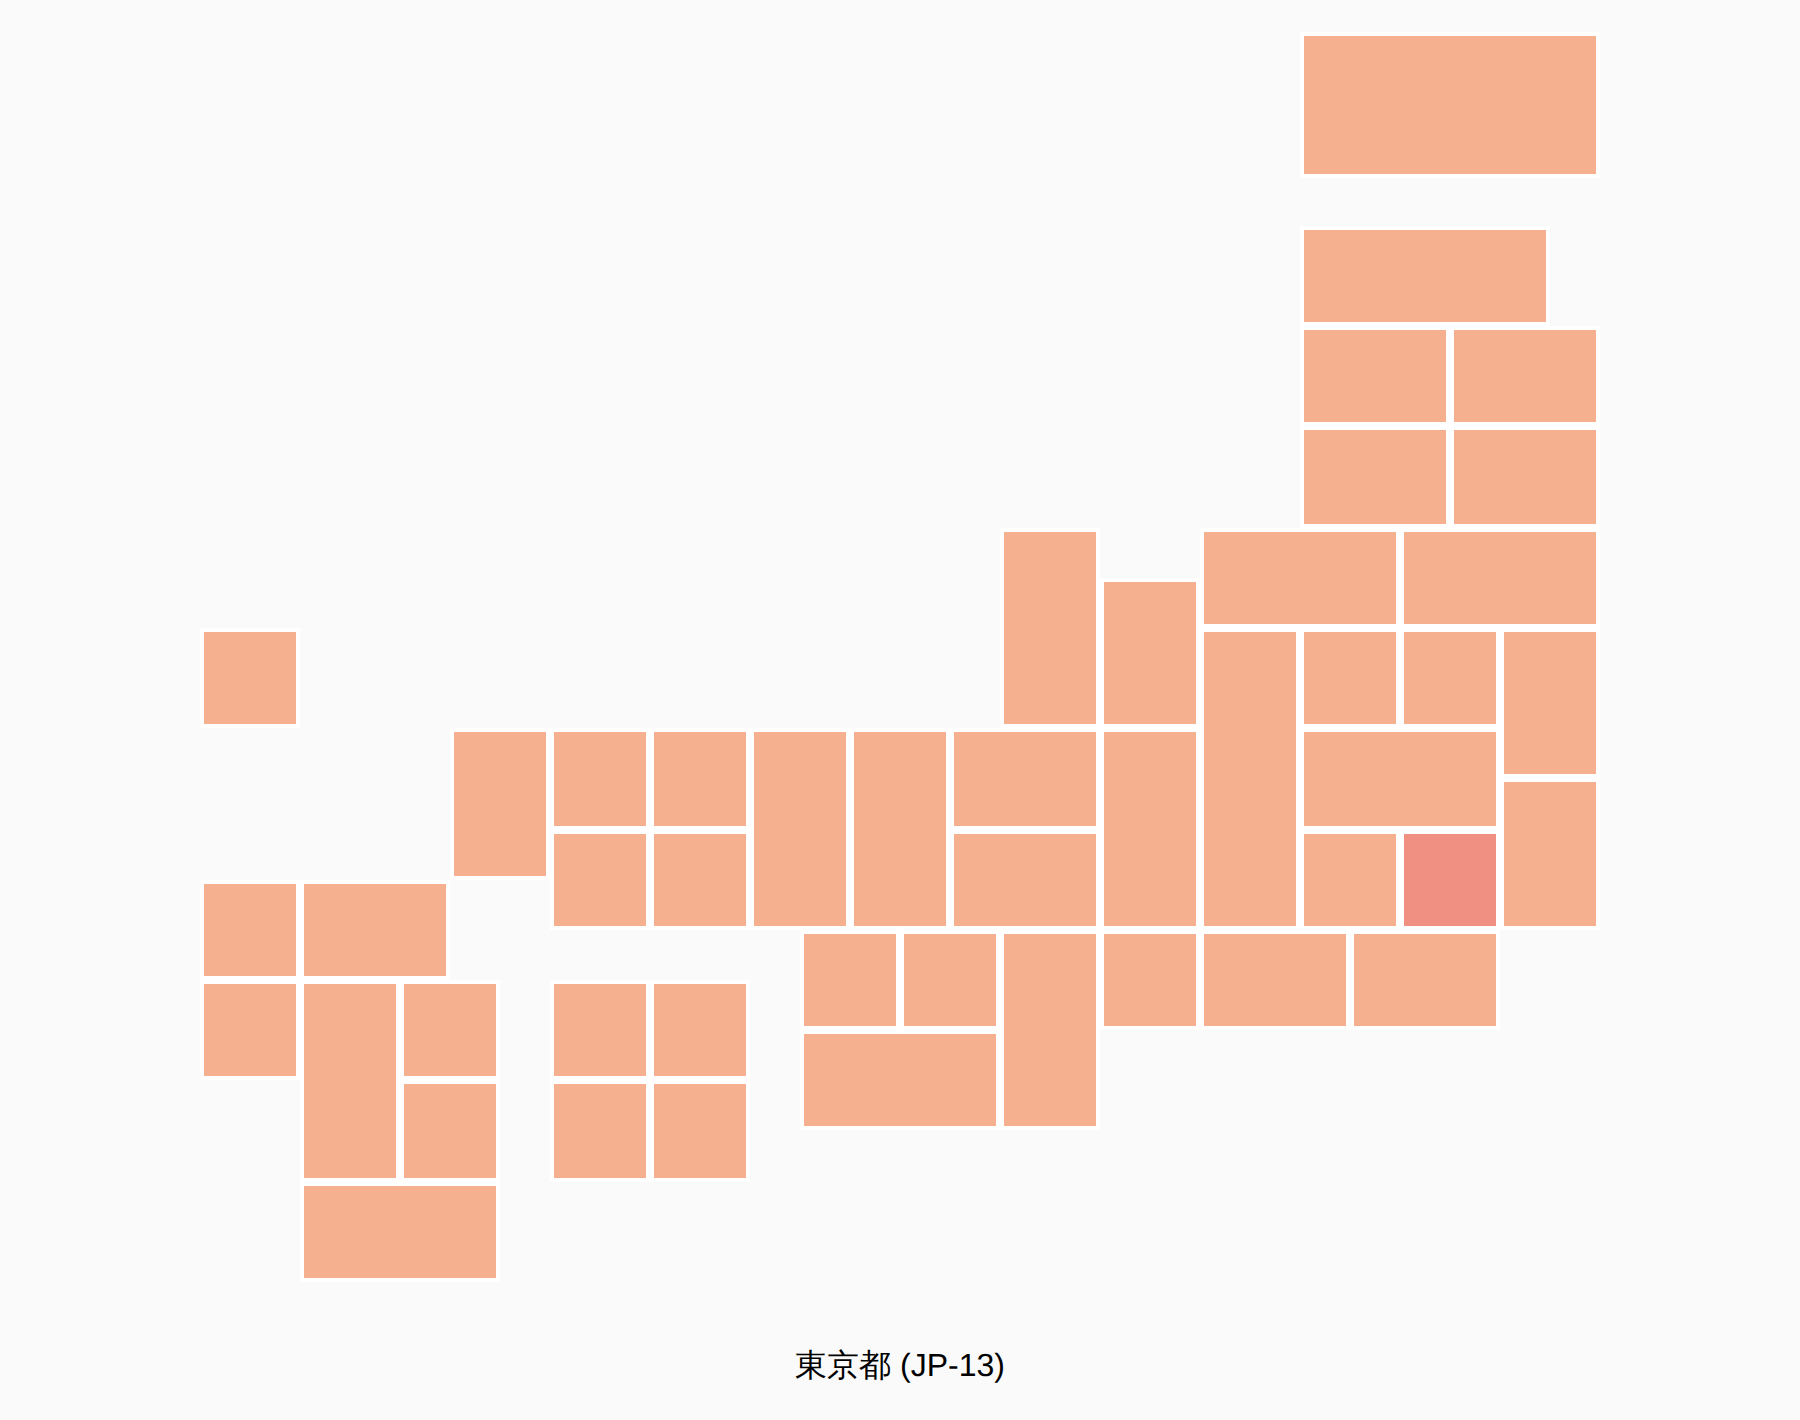
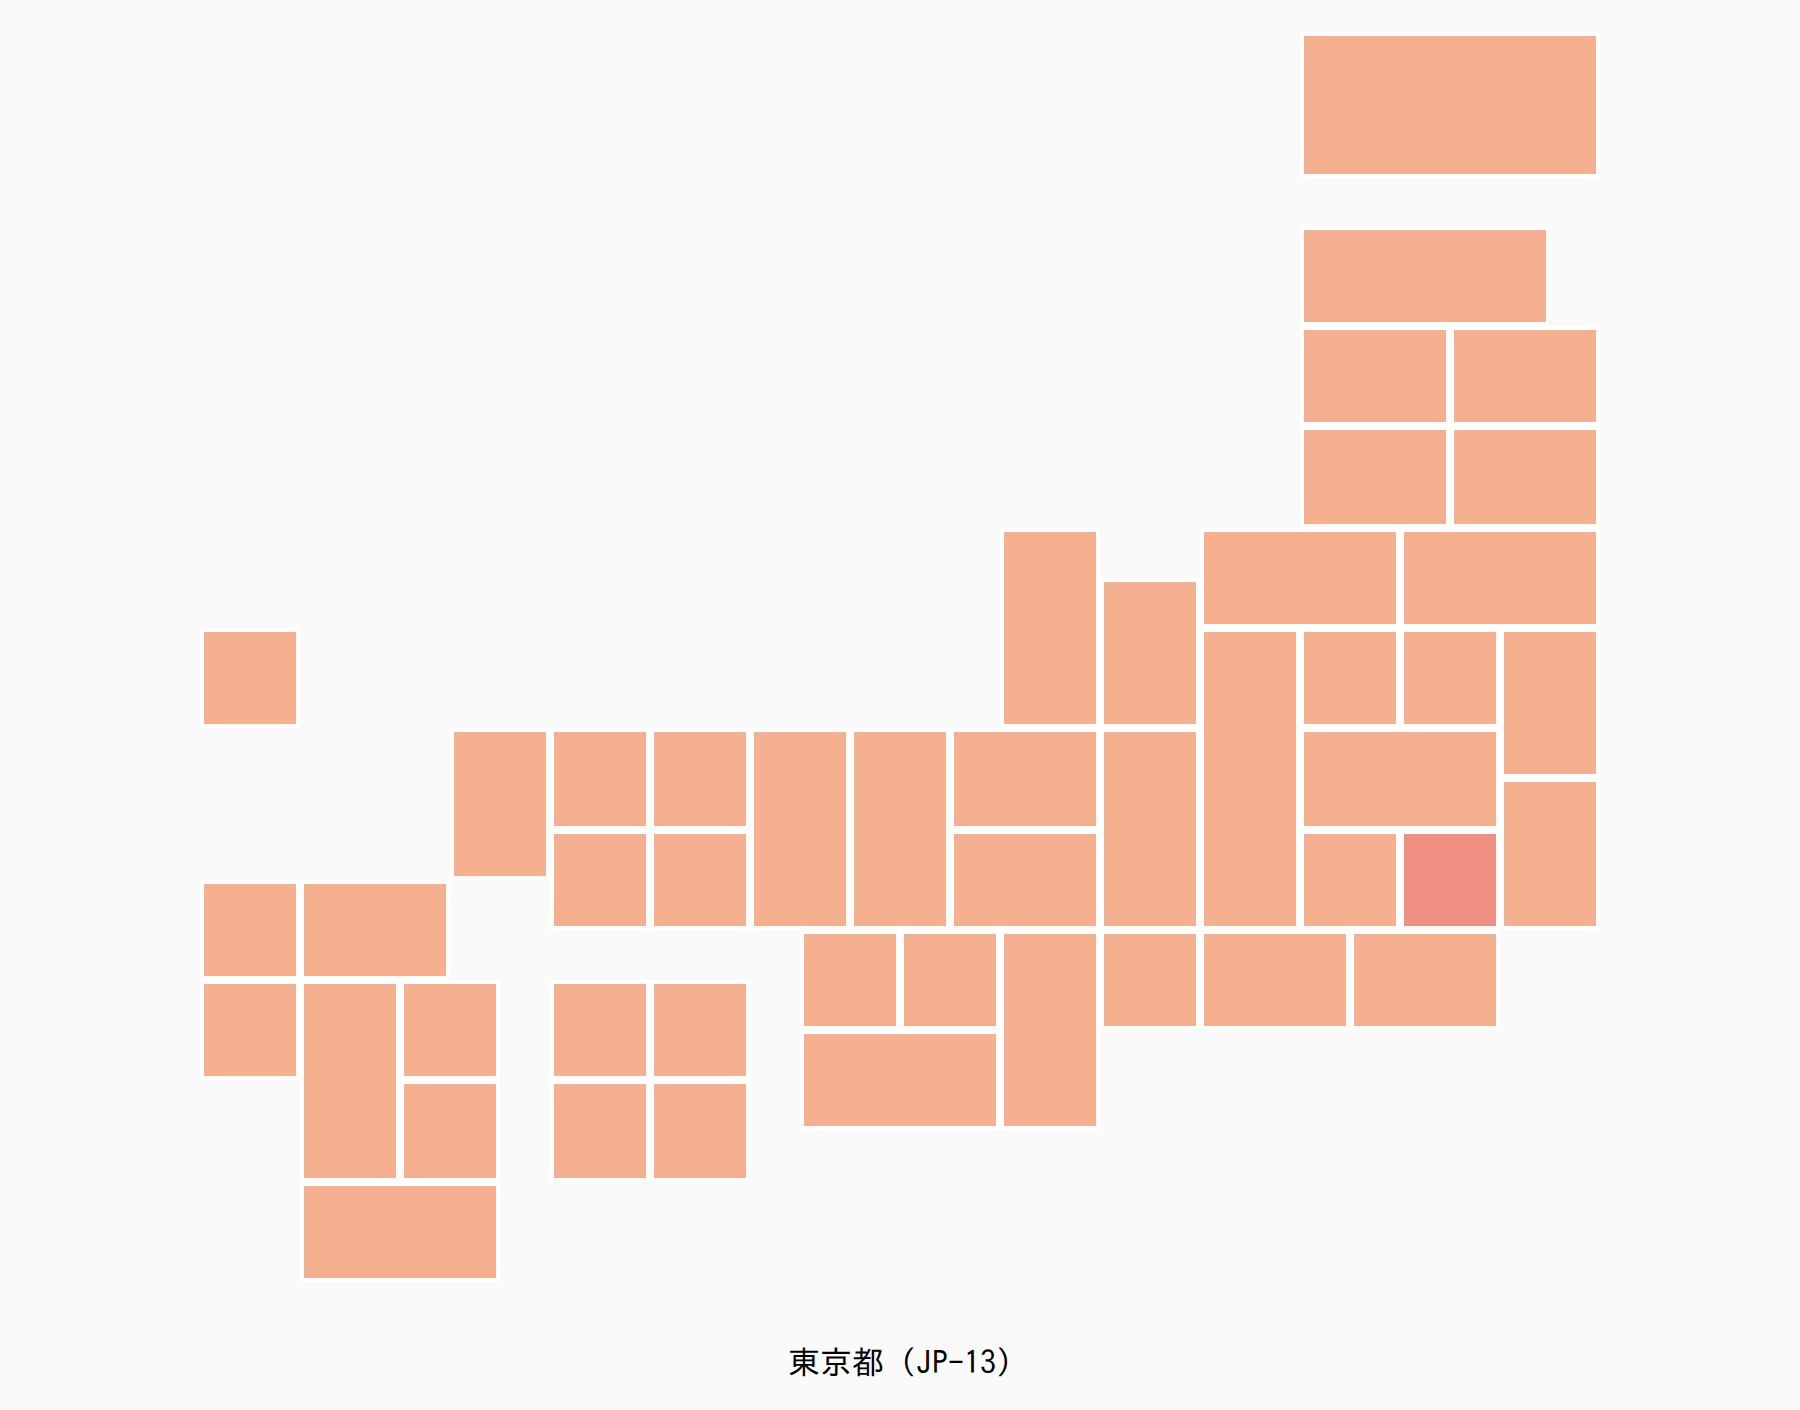
Specify a Japanese font stack in examples

diff --git a/examples/svg-choropleth.html b/examples/svg-choropleth.html
@@ -15,7 +15,7 @@
 <meta charset="utf-8">
 <title>県名の画数合計を塗り分ける例</title>
 <style>
-  body { font-family: sans-serif; background: #fff; color: #333; }
+  body { font-family: "IPAGothic", "Hiragino Sans", "Hiragino Kaku Gothic ProN", "Noto Sans JP", "Yu Gothic", Meiryo, sans-serif; background: #fff; color: #333; }
   #title { text-align: center; margin: 2rem 0 0; font-size: 1.1rem; }
   #wrap { width: min(90vmin, 700px); margin: .5rem auto; }
   #wrap svg { width: 100%; height: auto; }
@@ -50,8 +50,8 @@ const STROKES = {
 // 実データは最大値までを等分割すると大半が最小区分に寄るので、この決め方が無難。
 const CLASSES = [
   { min: 30, color: "#A63A2E", label: "30画以上" },
-  { min: 27, color: "#D2604B", label: "27–29画" },
-  { min: 23, color: "#E88A6B", label: "23–26画" },
+  { min: 27, color: "#D2604B", label: "27〜29画" },
+  { min: 23, color: "#E88A6B", label: "23〜26画" },
   { min:  0, color: "#F5B090", label: "22画以下" },
 ];
 const color = v => CLASSES.find(c => v >= c.min).color;

diff --git a/examples/css-grid.html b/examples/css-grid.html
@@ -15,7 +15,7 @@
 <meta charset="utf-8">
 <title>japan.grid.json を CSS Grid で描画する例（県境を判定して結合）</title>
 <style>
-  body { font-family: sans-serif; background: #fafafa; }
+  body { font-family: "IPAGothic", "Hiragino Sans", "Hiragino Kaku Gothic ProN", "Noto Sans JP", "Yu Gothic", Meiryo, sans-serif; background: #fafafa; }
   #map {
     display: grid;
     width: min(90vmin, 700px);
